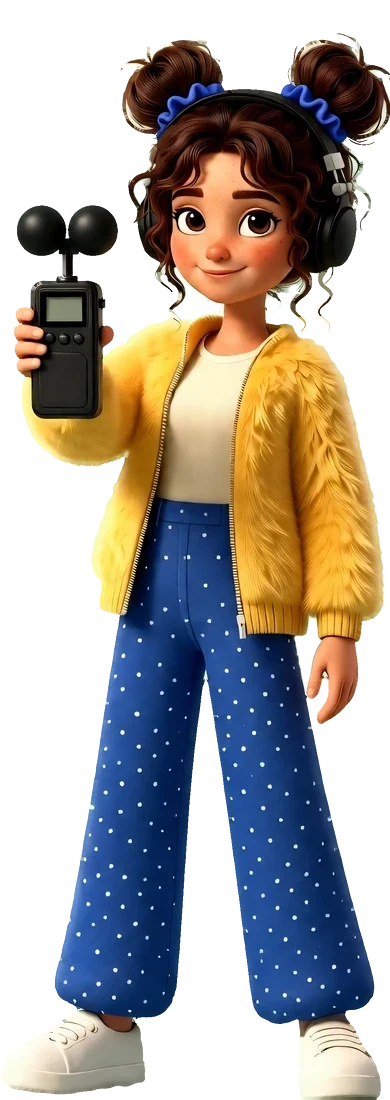
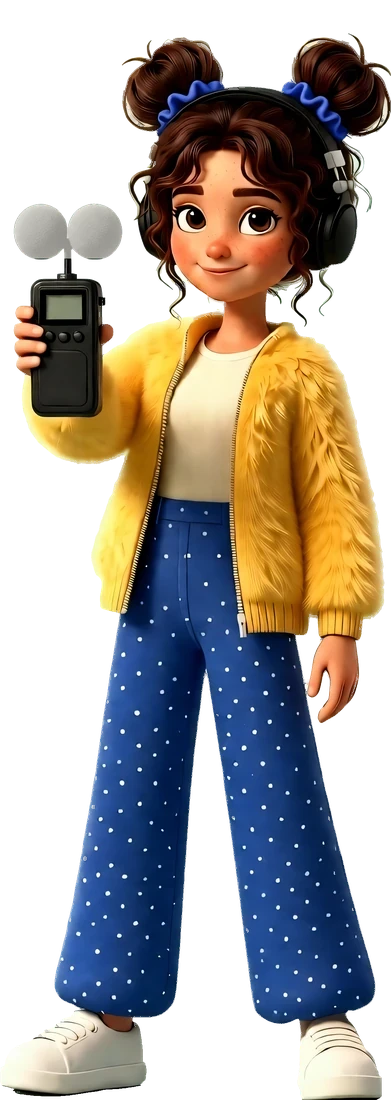
Cleaner cut-outs, a synth musician, the boom on its pole, faint instruments below the hero
- The tester's sneakers are solid again (the soles were cut by the frame and eaten by the cut-out)
- The recording person cut out again with no light rim; on the map a recorder with soft foam capsules on a
  shorter stem, blue scrunchies, and no light bits of old background in her curls
- The musician with calmer wavy hair: on the first screen a small analog modular synth with a proper jack
  plug, on the map the same kind of synth, a little over the top of the piano card
- The boom microphone turned 5 degrees round its mount, so her pole points into the middle of the windshield
- The faint instrument outlines of the prices, quieter, on the sections below the first screen (light lines
  on the dark ones), off the contact form
- Silhouettes, picture sizes and the musician's descriptions (EN and UA) updated

diff --git a/index.html b/index.html
@@ -11,35 +11,35 @@
 <link rel="preconnect" href="https://fonts.gstatic.com" crossorigin>
 <link rel="stylesheet" href="https://fonts.googleapis.com/css2?family=Archivo:wdth,wght@62..125,100..900&family=Roboto+Flex:wdth,wght@25..151,100..1000&family=Montserrat:wght@600..900&display=swap">
 <script>try{if(localStorage.getItem("sfx-lang")==="uk"){document.documentElement.lang="uk";document.documentElement.classList.add("i18n-wait")}}catch(e){}</script>
-<link rel="stylesheet" href="css/style.css?v=202610240033">
+<link rel="stylesheet" href="css/style.css?v=202610240913">
 <link rel="preload" as="image" href="assets/system/scene-forest.webp" fetchpriority="high">
 <script type="importmap">
 {
   "imports": {
     "three": "https://cdn.jsdelivr.net/npm/three@0.170.0/build/three.module.min.js",
     "three/addons/": "https://cdn.jsdelivr.net/npm/three@0.170.0/examples/jsm/",
-    "./js/audio.js": "./js/audio.js?v=202610240033",
-    "./js/boom-frame.js": "./js/boom-frame.js?v=202610240033",
-    "./js/content.js": "./js/content.js?v=202610240033",
-    "./js/gift.js": "./js/gift.js?v=202610240033",
-    "./js/i18n-boot.js": "./js/i18n-boot.js?v=202610240033",
-    "./js/i18n-uk.js": "./js/i18n-uk.js?v=202610240033",
-    "./js/i18n.js": "./js/i18n.js?v=202610240033",
-    "./js/main.js": "./js/main.js?v=202610240033",
-    "./js/map.js": "./js/map.js?v=202610240033",
-    "./js/music/music.js": "./js/music/music.js?v=202610240033",
-    "./js/music/sound.js": "./js/music/sound.js?v=202610240033",
-    "./js/phone-speakers.js": "./js/phone-speakers.js?v=202610240033",
-    "./js/studio-anim.js": "./js/studio-anim.js?v=202610240033",
-    "./js/studio-console.js": "./js/studio-console.js?v=202610240033",
-    "./js/studio-foley.js": "./js/studio-foley.js?v=202610240033",
-    "./js/studio-piano.js": "./js/studio-piano.js?v=202610240033",
-    "./js/team-carousel.js": "./js/team-carousel.js?v=202610240033"
+    "./js/audio.js": "./js/audio.js?v=202610240913",
+    "./js/boom-frame.js": "./js/boom-frame.js?v=202610240913",
+    "./js/content.js": "./js/content.js?v=202610240913",
+    "./js/gift.js": "./js/gift.js?v=202610240913",
+    "./js/i18n-boot.js": "./js/i18n-boot.js?v=202610240913",
+    "./js/i18n-uk.js": "./js/i18n-uk.js?v=202610240913",
+    "./js/i18n.js": "./js/i18n.js?v=202610240913",
+    "./js/main.js": "./js/main.js?v=202610240913",
+    "./js/map.js": "./js/map.js?v=202610240913",
+    "./js/music/music.js": "./js/music/music.js?v=202610240913",
+    "./js/music/sound.js": "./js/music/sound.js?v=202610240913",
+    "./js/phone-speakers.js": "./js/phone-speakers.js?v=202610240913",
+    "./js/studio-anim.js": "./js/studio-anim.js?v=202610240913",
+    "./js/studio-console.js": "./js/studio-console.js?v=202610240913",
+    "./js/studio-foley.js": "./js/studio-foley.js?v=202610240913",
+    "./js/studio-piano.js": "./js/studio-piano.js?v=202610240913",
+    "./js/team-carousel.js": "./js/team-carousel.js?v=202610240913"
   }
 }
 </script>
-<script type="module" src="js/i18n-boot.js?v=202610240033"></script>
-<script type="module" src="js/main.js?v=202610240033"></script>
+<script type="module" src="js/i18n-boot.js?v=202610240913"></script>
+<script type="module" src="js/main.js?v=202610240913"></script>
 </head>
 <body>
 <a class="skip" href="#main">Skip to content</a>
@@ -89,16 +89,16 @@
       <div class="team" data-team data-start="1" role="region" aria-roledescription="carousel" aria-label="Our team: drag sideways or use the arrows to swap" tabindex="0">
         <div class="team__ring">
           <figure class="team__p" data-member="test" style="--h: .926">
-            <img class="team__body" src="assets/team/test.webp" srcset="assets/team/test-560.webp 253w, assets/team/test.webp 497w" sizes="(max-width: 1024px) 34vw, 17vw" alt="Illustration: a team member testing a mobile game on a phone" width="497" height="1100" decoding="async" draggable="false">
+            <img class="team__body" src="assets/team/test.webp" srcset="assets/team/test-560.webp 249w, assets/team/test.webp 489w" sizes="(max-width: 1024px) 34vw, 17vw" alt="Illustration: a team member testing a mobile game on a phone" width="489" height="1100" decoding="async" draggable="false">
           </figure>
           <figure class="team__p" data-member="rec" style="--h: 1">
             <img class="team__body" src="assets/team/rec-bare.webp" srcset="assets/team/rec-bare-560.webp 276w, assets/team/rec-bare.webp 543w" sizes="(max-width: 1024px) 38vw, 19vw" alt="Illustration: a team member recording sound with a boom microphone" width="543" height="1100" decoding="async" draggable="false">
-            <div class="boom" data-boom data-tip="0.2632,0.1564" data-pole="65.33" data-size="0.6366">
+            <div class="boom" data-boom data-tip="0.2632,0.1564" data-pole="60.33" data-size="0.6366">
               <img class="boom__still" src="assets/team/mic-3d.webp" alt="" decoding="async" draggable="false">
             </div>
           </figure>
           <figure class="team__p" data-member="mix" style="--h: .905">
-            <img class="team__body" src="assets/team/mix.webp" srcset="assets/team/mix-560.webp 231w, assets/team/mix.webp 453w" sizes="(max-width: 1024px) 34vw, 17vw" alt="Illustration: a team member playing a MIDI keyboard" width="453" height="1100" decoding="async" draggable="false">
+            <img class="team__body" src="assets/team/mix.webp" srcset="assets/team/mix-560.webp 219w, assets/team/mix.webp 430w" sizes="(max-width: 1024px) 34vw, 17vw" alt="Illustration: a team member patching a small analog synthesizer" width="430" height="1100" decoding="async" draggable="false">
           </figure>
         </div>
         <div class="team__bar">
@@ -158,7 +158,7 @@
             <section class="bay" data-bay="sfx" aria-labelledby="bay-sfx">
               <h3 class="bay__title" id="bay-sfx"><span class="bay__dot" data-bay-dot="sfx" aria-hidden="true"></span>Sound effects</h3>
               <div class="bay__desk">
-                <img class="bay__person bay__person--rec" src="assets/team/rec-map-560.webp" srcset="assets/team/rec-map-560.webp 199w, assets/team/rec-map.webp 390w" sizes="150px" alt="Illustration: recording sound with a handheld recorder" width="390" height="1100" loading="lazy" decoding="async">
+                <img class="bay__person bay__person--rec" src="assets/team/rec-map-560.webp" srcset="assets/team/rec-map-560.webp 199w, assets/team/rec-map.webp 391w" sizes="150px" alt="Illustration: recording sound with a handheld recorder" width="391" height="1100" loading="lazy" decoding="async">
                 <div class="principle__art principle__art--stage" id="card-sfx" data-scene="foley" role="group" aria-label="Sound effects: a boot over dirt, sand, grass and snow. Press a surface to hear the boot step on it."><span class="principle__hint" aria-hidden="true">Pick a surface</span><img class="principle__img" src="assets/studio/foley-640.webp" srcset="assets/studio/foley-640.webp 640w, assets/studio/foley-1024.webp 1024w" sizes="(max-width: 760px) 92vw, 300px" width="1024" height="768" loading="lazy" decoding="async" alt=""></div>
                 <button class="zoom-btn" type="button" data-zoom-open="card-sfx" data-zoom-label="Sound effects" aria-label="Open the sound effects larger"><svg viewBox="0 0 24 24" aria-hidden="true"><path d="M14 4h6v6M20 4l-7 7M10 20H4v-6M4 20l7-7"/></svg></button>
               </div>
@@ -166,7 +166,7 @@
             <section class="bay" data-bay="music" aria-labelledby="bay-music">
               <h3 class="bay__title" id="bay-music"><span class="bay__dot" data-bay-dot="music" aria-hidden="true"></span>Music</h3>
               <div class="bay__desk">
-                <img class="bay__person bay__person--mix" src="assets/team/mix-map-560.webp" srcset="assets/team/mix-map-560.webp 215w, assets/team/mix-map.webp 423w" sizes="150px" alt="Illustration: a musician with a MIDI keyboard slung on his back" width="423" height="1100" loading="lazy" decoding="async">
+                <img class="bay__person bay__person--mix" src="assets/team/mix-map-560.webp" srcset="assets/team/mix-map-560.webp 221w, assets/team/mix-map.webp 434w" sizes="150px" alt="Illustration: a musician patching a small analog synthesizer" width="434" height="1100" loading="lazy" decoding="async">
                 <div class="principle__art principle__art--play" id="card-music" data-scene="keys" tabindex="0" role="group" aria-label="A small keyboard you can play" aria-describedby="piano-help"><span class="principle__hint" aria-hidden="true">Play me</span><span class="visually-hidden" id="piano-help">Click or tap the keys. With the keyboard, use A to L for white keys and W, E, T, Y, U, O, P for black keys.</span><img class="principle__img" src="assets/studio/music-640.webp" srcset="assets/studio/music-640.webp 640w, assets/studio/music-1024.webp 1024w" sizes="(max-width: 760px) 92vw, 300px" width="1024" height="768" loading="lazy" decoding="async" alt=""></div>
                 <button class="zoom-btn" type="button" data-zoom-open="card-music" data-zoom-label="Music" aria-label="Open the keyboard larger"><svg viewBox="0 0 24 24" aria-hidden="true"><path d="M14 4h6v6M20 4l-7 7M10 20H4v-6M4 20l7-7"/></svg></button>
               </div>
@@ -181,7 +181,7 @@
           <div class="stage__bay">
             <div class="bay" data-bay="test">
               <div class="bay__desk bay__desk--side">
-                <img class="bay__person bay__person--test" src="assets/team/test-map-560.webp" srcset="assets/team/test-map-560.webp 219w, assets/team/test-map.webp 430w" sizes="110px" alt="Illustration: playing a game on a handheld console" width="430" height="1100" loading="lazy" decoding="async">
+                <img class="bay__person bay__person--test" src="assets/team/test-map-560.webp" srcset="assets/team/test-map-560.webp 213w, assets/team/test-map.webp 417w" sizes="110px" alt="Illustration: playing a game on a handheld console" width="417" height="1100" loading="lazy" decoding="async">
                 <div class="principle__art principle__art--pad" id="card-test" data-scene="console" role="group" aria-label="A handheld console with a small rhythm game: four strings on its screen, notes slide down to their targets." aria-describedby="pad-help"><span class="principle__hint" aria-hidden="true">Sweep across the strings</span><span class="visually-hidden" id="pad-help">The four strings play the notes C, E, G and A. Press Play, then pluck each string as its note reaches the target: pass the cursor across the string (no click needed), swipe across it on a touch screen, or use the keys D, F, J and K. Out of a game the strings can be plucked freely.</span><img class="principle__img" src="assets/studio/engine-tall-640.webp" width="640" height="853" loading="lazy" decoding="async" alt=""></div>
                 <button class="zoom-btn" type="button" data-zoom-open="card-test" data-zoom-label="Integration and testing" aria-label="Open the Game Boy larger"><svg viewBox="0 0 24 24" aria-hidden="true"><path d="M14 4h6v6M20 4l-7 7M10 20H4v-6M4 20l7-7"/></svg></button>
               </div>

diff --git a/css/style.css b/css/style.css
@@ -1127,6 +1127,30 @@ ul { padding: 0; list-style: none; }
 }
 .pricing::before { right: -5vw; bottom: -.12em; color: rgba(29, 35, 39, .025); }
 
+/* Round V (the owner: the faint instruments under the prices, but on the whole page and quieter still): the same
+   tile, two to three times fainter than under the prices (assets/bg/instruments-faint-*.svg), as a layer of its
+   own (::before) in the sections below the first screen, dark lines on the light sections and light lines on the dark ones, so
+   no background changes colour. Each section shifts the tile its own way, so the repeat doesn't line up. It stays
+   off the contact form (a mask); under headings it may stay. Not on the first screen (the owner: keep it clean). */
+.process::before, .work::before, .contact::before, .site-foot::before {
+  content: ""; position: absolute; inset: 0; z-index: 0; pointer-events: none;
+  background: url(../assets/bg/instruments-faint-ink.svg) var(--faint-at, 0 0) / 760px repeat;
+}
+.process::before, .site-foot::before { z-index: -1; }   /* under the seam's fade, which is z-index -1 and comes after */
+.work::before, .site-foot::before { background-image: url(../assets/bg/instruments-faint-light.svg); }
+.process::before { --faint-at: 210px -340px; }
+.work::before { --faint-at: -470px 180px; }
+.contact::before { --faint-at: 330px -90px; -webkit-mask-image: linear-gradient(to right, #000 34%, transparent 46%); mask-image: linear-gradient(to right, #000 34%, transparent 46%); }
+.site-foot::before { --faint-at: -40px -260px; }
+.contact { position: relative; isolation: isolate; }
+.contact > * { position: relative; z-index: 1; }
+@media (max-width: 760px) {
+  .process::before, .work::before, .contact::before, .site-foot::before { background-image: url(../assets/bg/instruments-faint-sparse-ink.svg); background-size: 560px; }
+  .work::before, .site-foot::before { background-image: url(../assets/bg/instruments-faint-sparse-light.svg); }
+  /* phones: the form is at the bottom of the contact field */
+  .contact::before { -webkit-mask-image: linear-gradient(to bottom, #000 30%, transparent 40%); mask-image: linear-gradient(to bottom, #000 30%, transparent 40%); }
+}
+
 /* ---------- how we work: one map, four stages always in view (round M) ---------- */
 /* A graphite tech panel on the mint page. The four stages sit side by side (2 x 2 on mid widths, one
    column on phones), joined by a thin route with a direction (js/map.js draws it from the real node
@@ -1238,7 +1262,10 @@ ul { padding: 0; list-style: none; }
   height: calc(var(--fig) * var(--k)); width: auto; max-width: none; pointer-events: none; user-select: none;
 }
 [data-bay="sfx"] .bay__desk { --k: 1.12; --waist: .53; --person-x: 7%; }   /* round U2: her map pose with the handheld recorder (rec-map.webp) */
-[data-bay="music"] .bay__desk { --k: 1.14; --waist: .5; --person-x: 22%; }   /* round U2: his map pose, the keyboard on his back (mix-map.webp) */
+[data-bay="music"] .bay__desk { --k: 1.14; --waist: .47; --person-x: 22%; }   /* round V: his map pose with the modular synth (mix-map.webp) */
+/* round V (the owner: the synth a little over the piano): he stands in front of the card, but only down to just under
+   his hands, so the lower part of the synth lies over the top of the card and the rest of him stays out of sight */
+.bay__person--mix { z-index: 2; clip-path: inset(0 0 calc(100% - (var(--waist) + .085) * 100%) 0); }
 /* stage 03: the tester stands beside the Game Boy */
 .bay__desk--side { display: grid; grid-template-columns: auto minmax(0, 1fr); align-items: end; gap: 6px; padding-top: 0; }
 .bay__desk--side .bay__person { position: relative; left: auto; top: auto; margin-bottom: -2px; height: calc(var(--fig) * .98); }

diff --git a/js/main.js b/js/main.js
@@ -72,7 +72,7 @@ function initHeader() {
 // line on top, the phone under it, the team under the phone. The people's tops come from their pictures:
 // bands of their silhouettes, every 4 % of the height (_dev/tools/team_silhouette.py), her microphone from
 // js/boom-frame.js; thin things (her pole) are left out.
-const SILHOUETTE = {"test":[[0.0,0.04,0.451,0.648],[0.04,0.08,0.414,0.807],[0.08,0.12,0.394,0.815],[0.12,0.16,0.404,0.789],[0.16,0.2,0.38,0.702],[0.2,0.24,0.02,0.718],[0.24,0.28,0.006,0.865],[0.28,0.32,0.0,0.913],[0.32,0.36,0.004,0.95],[0.36,0.4,0.044,0.982],[0.4,0.44,0.058,1.0],[0.44,0.48,0.103,1.0],[0.48,0.52,0.278,0.984],[0.52,0.56,0.274,0.877],[0.56,0.6,0.288,0.799]],"rec":[[0.08,0.12,0.545,0.961],[0.12,0.16,0.538,1.0],[0.16,0.2,0.541,1.0],[0.2,0.24,0.556,0.958],[0.24,0.28,0.554,0.945],[0.28,0.32,0.355,0.932],[0.32,0.36,0.361,0.891],[0.36,0.4,0.328,0.936],[0.4,0.44,0.328,0.972],[0.44,0.48,0.355,0.996],[0.48,0.52,0.49,0.998],[0.52,0.56,0.483,0.969],[0.56,0.6,0.499,0.901]],"mix":[[0.04,0.08,0.223,0.649],[0.08,0.12,0.21,0.658],[0.12,0.16,0.223,0.653],[0.16,0.2,0.254,0.649],[0.2,0.24,0.28,0.603],[0.24,0.28,0.289,0.631],[0.28,0.32,0.155,0.695],[0.32,0.36,0.095,0.762],[0.36,0.4,0.038,0.845],[0.4,0.44,0.0,0.879],[0.44,0.48,0.0,0.879],[0.48,0.52,0.053,0.982],[0.52,0.56,0.216,1.0],[0.56,0.6,0.241,0.788]]};
+const SILHOUETTE = {"test":[[0.0,0.04,0.454,0.646],[0.04,0.08,0.413,0.808],[0.08,0.12,0.395,0.816],[0.12,0.16,0.405,0.789],[0.16,0.2,0.38,0.697],[0.2,0.24,0.018,0.726],[0.24,0.28,0.004,0.871],[0.28,0.32,0.0,0.918],[0.32,0.36,0.008,0.955],[0.36,0.4,0.047,0.988],[0.4,0.44,0.059,1.0],[0.44,0.48,0.131,0.996],[0.48,0.52,0.276,0.975],[0.52,0.56,0.274,0.863],[0.56,0.6,0.288,0.787]],"rec":[[0.08,0.12,0.547,0.956],[0.12,0.16,0.54,1.0],[0.16,0.2,0.543,1.0],[0.2,0.24,0.556,0.954],[0.24,0.28,0.556,0.945],[0.28,0.32,0.355,0.932],[0.32,0.36,0.361,0.89],[0.36,0.4,0.324,0.936],[0.4,0.44,0.324,0.971],[0.44,0.48,0.354,0.994],[0.48,0.52,0.49,0.998],[0.52,0.56,0.481,0.965],[0.56,0.6,0.499,0.901]],"mix":[[0.0,0.04,0.458,0.586],[0.04,0.08,0.274,0.663],[0.08,0.12,0.233,0.674],[0.12,0.16,0.26,0.688],[0.16,0.2,0.274,0.663],[0.2,0.24,0.333,0.633],[0.24,0.28,0.279,0.665],[0.28,0.32,0.149,0.74],[0.32,0.36,0.095,0.907],[0.36,0.4,0.03,0.937],[0.4,0.44,0.0,0.965],[0.44,0.48,0.0,0.993],[0.48,0.52,0.27,1.0],[0.52,0.56,0.272,0.907],[0.56,0.6,0.26,0.723]]};
 const PHONE_RATIO = 2.05;
 
 // every place the people pass on the carousel (k = -1 left ... 0 middle ... +1 right), as rects on the stage
@@ -204,6 +204,11 @@ function placeBoom(box) {
   box.style.height = `${h}px`;
   box.style.left = `${tip[0] * fw - px * w}px`;
   box.style.top = `${tip[1] * fh - py * h}px`;
+  // round V: data-pole turns the whole microphone round its knuckle, so her pole points into the middle of the
+  // windshield (BOOM_FRAME.pole: the pole angle the picture was made for)
+  const turn = (+box.dataset.pole || BOOM_FRAME.pole) - BOOM_FRAME.pole;
+  box.style.transformOrigin = `${px * 100}% ${py * 100}%`;
+  box.style.transform = turn ? `rotate(${turn.toFixed(2)}deg)` : '';
 }
 
 function initMic() {

diff --git a/js/i18n-uk.js b/js/i18n-uk.js
@@ -116,7 +116,7 @@ export const UK = {
   'Sound effects: a boot over dirt, sand, grass and snow. Press a surface to hear the boot step on it.':
     'Звукові ефекти: черевик над землею, піском, травою і снігом. Натисніть на поверхню, щоб почути крок по ній.',
   'Open the sound effects larger': 'Відкрити звукові ефекти більшими',
-  'Illustration: a musician with a MIDI keyboard slung on his back': 'Ілюстрація: музикант із MIDI-клавіатурою за спиною',
+  'Illustration: a musician patching a small analog synthesizer': 'Ілюстрація: музикант комутує невеликий аналоговий синтезатор',
   'Illustration: recording sound with a handheld recorder': 'Ілюстрація: запис звуку ручним рекордером',
   'Open the keyboard larger': 'Відкрити клавіатуру більшою',
   'We connect the solution to the game and check its behaviour and balance in gameplay.': 'Підключаємо рішення до гри й перевіряємо його поведінку та баланс у геймплеї.',
@@ -138,7 +138,7 @@ export const UK = {
   'Our team: drag sideways or use the arrows to swap': 'Наша команда: потягніть убік або скористайтеся стрілками, щоб поміняти місцями',
   'Illustration: a team member testing a mobile game on a phone': 'Ілюстрація: учасник команди перевіряє мобільну гру на телефоні',
   'Illustration: a team member recording sound with a boom microphone': 'Ілюстрація: учасниця команди записує звук бум-мікрофоном',
-  'Illustration: a team member playing a MIDI keyboard': 'Ілюстрація: учасник команди грає на MIDI-клавіатурі',
+  'Illustration: a team member patching a small analog synthesizer': 'Ілюстрація: учасник команди комутує невеликий аналоговий синтезатор',
   'Previous team member': 'Попередній учасник команди',
   'Next team member': 'Наступний учасник команди',
   'Recording and sound effects': 'Запис звуку й звукові ефекти',

diff --git a/js/boom-frame.js b/js/boom-frame.js
@@ -6,11 +6,12 @@
 // &size=0.6366&pivot=0.567,0.798), so the mount and the pole meet where they did.
 //   aspect: box width / height. pivot: where the shock-mount knuckle (the tip of her pole) sits in the box,
 //   as fractions. unit: pixels per world unit of the model, as a fraction of the box width. bbox: the
-//   windshield, [x0, y0, x1, y1] fractions of the box (keeps the word off it).
+//   windshield, [x0, y0, x1, y1] fractions of the box (keeps the word off it). pole: see below.
 export const BOOM_FRAME = {
   aspect: 1.377,
   pivot: [0.567, 0.798],
   unit: 0.1676,
   bbox: [0.055, 0.058, 0.94, 0.855],
   still: 'mic-3d.webp',
+  pole: 65.33,   // round V: the pole angle (degrees) the picture was made for; index.html data-pole turns it from there
 };
